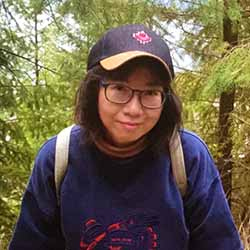
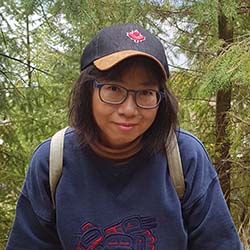
general image clean-up updates

diff --git a/scripts/functions.js b/scripts/functions.js
@@ -2,7 +2,7 @@
 
 	var logoFile = "FLC-logo-cut",
 		logocolour = "#182945",
-		galleryMax = "22";
+		galleryMax = "23";
 
 // ==== FIN ====
 

diff --git a/galleries/christmas22/christmas22grid.php b/galleries/christmas22/christmas22grid.php
@@ -1,28 +1,29 @@
 <section class="grid">
 
-    <!-- ==== ARTWORKS  |  TAGartwork/TAG##.php ==== -->
-        <?php include __DIR__ . '/christmas22artwork/christmas2201.php'; ?>
-        <?php include __DIR__ . '/christmas22artwork/christmas2202.php'; ?>
-        <?php include __DIR__ . '/christmas22artwork/christmas2203.php'; ?>
-        <?php include __DIR__ . '/christmas22artwork/christmas2204.php'; ?>
-        <?php include __DIR__ . '/christmas22artwork/christmas2205.php'; ?>
-        <?php include __DIR__ . '/christmas22artwork/christmas2206.php'; ?>
-        <?php // include __DIR__ . '/christmas22artwork/christmas2207.php'; ?>
-        <?php include __DIR__ . '/christmas22artwork/christmas2208.php'; ?>
-        <?php include __DIR__ . '/christmas22artwork/christmas2209.php'; ?>
-        <?php include __DIR__ . '/christmas22artwork/christmas2210.php'; ?>
-        <?php include __DIR__ . '/christmas22artwork/christmas2211.php'; ?>
-        <?php include __DIR__ . '/christmas22artwork/christmas2212.php'; ?>
-        <?php include __DIR__ . '/christmas22artwork/christmas2213.php'; ?>
-        <?php include __DIR__ . '/christmas22artwork/christmas2214.php'; ?>
-        <?php // include __DIR__ . '/christmas22artwork/christmas2215.php'; ?>
-        <?php include __DIR__ . '/christmas22artwork/christmas2216.php'; ?>
-        <?php include __DIR__ . '/christmas22artwork/christmas2217.php'; ?>
+    <!-- ==== CHRISTMAS 22 GALLERY ARTWORKS ==== -->
         <?php include __DIR__ . '/christmas22artwork/christmas2218.php'; ?>
-        <?php include __DIR__ . '/christmas22artwork/christmas2219.php'; ?>
-        <?php include __DIR__ . '/christmas22artwork/christmas2220.php'; ?>
+        <?php include __DIR__ . '/christmas22artwork/christmas2210.php'; ?>
+        <?php include __DIR__ . '/christmas22artwork/christmas2201.php'; ?>
+        <?php include __DIR__ . '/christmas22artwork/christmas2208.php'; ?>
+        <?php include __DIR__ . '/christmas22artwork/christmas2211.php'; ?>
+        <?php include __DIR__ . '/christmas22artwork/christmas2203.php'; ?>
+        <?php include __DIR__ . '/christmas22artwork/christmas2205.php'; ?>
+        <?php include __DIR__ . '/christmas22artwork/christmas2212.php'; ?>
+        <?php include __DIR__ . '/christmas22artwork/christmas2217.php'; ?>
+        <?php include __DIR__ . '/christmas22artwork/christmas2214.php'; ?>
+        <?php include __DIR__ . '/christmas22artwork/christmas2206.php'; ?>
         <?php include __DIR__ . '/christmas22artwork/christmas2221.php'; ?>
+        <?php include __DIR__ . '/christmas22artwork/christmas2209.php'; ?>
+        <?php include __DIR__ . '/christmas22artwork/christmas2204.php'; ?>
+        <?php include __DIR__ . '/christmas22artwork/christmas2223.php'; ?>
+        <?php include __DIR__ . '/christmas22artwork/christmas2213.php'; ?>
+        <?php include __DIR__ . '/christmas22artwork/christmas2220.php'; ?>
+        <?php include __DIR__ . '/christmas22artwork/christmas2202.php'; ?>
+        <?php include __DIR__ . '/christmas22artwork/christmas2216.php'; ?>
+        <?php include __DIR__ . '/christmas22artwork/christmas2219.php'; ?>
+        <?php include __DIR__ . '/christmas22artwork/christmas2207.php'; ?>
         <?php include __DIR__ . '/christmas22artwork/christmas2222.php'; ?>
+        <?php // include __DIR__ . '/christmas22artwork/christmas2215.php'; ?>
 
         <!-- MISSING
             - image for about section

diff --git a/galleries/christmas22/christmas22artwork/christmas2223.php b/galleries/christmas22/christmas22artwork/christmas2223.php
@@ -1,0 +1,27 @@
+<!-- FLG23 -->
+<div class="grid-item g-christmas22 m-arcrylic m-painting a-010">
+    <a href="#" aria-controls="aside" aria-expanded="false"
+        class="tile" id="flg23">
+        <img src="images/flg10-2_thumb.jpg" alt="Arcrylic painting on canvas">
+
+        <!-- ==== FLG23 ASIDE ==== -->
+            <div class="visually-hidden">
+                <div class="aside-img">
+                    <div class="aside-top">
+                        <img src="images/flg10-2.jpg" alt="Arcrylic painting on canvas">
+                    </div>
+                </div>
+                <div class="details panel-box is-flex">
+                    <div class="aside-text">
+                        <!-- <h3 class="head-font christmas22-header">XX</h3> -->
+                        <p class="medium italics bold">Arcrylic Painting</p>
+                        <div class="is-flex bio-box">
+                            <img src="images/Hugh-Kuo_2211.jpg" alt="Photo of Hugh Kuo">
+                            <p class="byline christmas22-byline">by: Hugh Kuo</p>
+                        </div>
+                    </div>
+                </div>
+            </div>
+        <!-- ==== FIN ==== -->
+    </a>
+</div>

diff --git a/galleries/christmas22/christmas22artwork/christmas2204.php b/galleries/christmas22/christmas22artwork/christmas2204.php
@@ -1,14 +1,19 @@
 <!-- FLG4 -->
 <div class="grid-item g-christmas22 m-digitalart m-3d a-004 a-009">
     <a href="#" aria-controls="aside" aria-expanded="false"
-        class="tile" id="flg4">
-        <img src="images/_thumb.jpg" alt="3D Illustration of the nativity">
+        class="tile " id="flg4">
+        <!-- video -->
+        <img src="images/flg4_thumb.jpg" alt="3D Illustration of the nativity">
 
         <!-- ==== FLG4 ASIDE ==== -->
             <div class="visually-hidden">
                 <div class="aside-img">
                     <div class="aside-top">
-                        <img src="images/.jpg" alt="3D Illustration of the nativity">
+                        <img src="images/flg4.jpg" alt="3D Illustration of the nativity">
+                        <!-- <video controls playsinline onloadstart="this.volume=0.2;">
+                            <source src="images/" type="video/mp4">
+                            Your browser does not support the video tag :(
+                        </video> -->
                     </div>
                 </div>
                 <div class="details panel-box is-flex">

diff --git a/galleries/christmas22/christmas22artwork/christmas2201.php b/galleries/christmas22/christmas22artwork/christmas2201.php
@@ -2,13 +2,13 @@
 <div class="grid-item g-christmas22 m-arcrylic m-painting a-001">
     <a href="#" aria-controls="aside" aria-expanded="false"
         class="tile" id="flg1">
-        <img src="images/flg1_thumb_light.jpg" alt="Arcrylic painting on canvas">
+        <img src="images/flg1_thumb.jpg" alt="Arcrylic painting on canvas">
 
         <!-- ==== FLG1 ASIDE ==== -->
             <div class="visually-hidden">
                 <div class="aside-img">
                     <div class="aside-top">
-                        <img src="images/flg1_light.jpg" alt="Arcrylic painting on canvas">
+                        <img src="images/flg1.jpg" alt="Arcrylic painting on canvas">
                     </div>
                 </div>
                 <div class="details panel-box is-flex">

diff --git a/galleries/christmas22/christmas22artwork/christmas2207.php b/galleries/christmas22/christmas22artwork/christmas2207.php
@@ -2,13 +2,13 @@
 <div class="grid-item g-christmas22 m-photograph a-006">
     <a href="#" aria-controls="aside" aria-expanded="false"
         class="tile" id="flg7">
-        <!-- <img src="images/flg7_thumb.jpg" alt="Mediumish desc"> -->
+        <img src="images/flg7_thumb.jpg" alt="Mixed media painting over photograph">
 
         <!-- ==== FLG7 ASIDE ==== -->
             <div class="visually-hidden">
                 <div class="aside-img">
                     <div class="aside-top">
-                        <!-- <img src="images/flg7.jpg" alt="Mediumish desc"> -->
+                        <img src="images/flg7.jpg" alt="Mixed media painting over photograph">
                     </div>
                 </div>
                 <div class="details panel-box is-flex">
